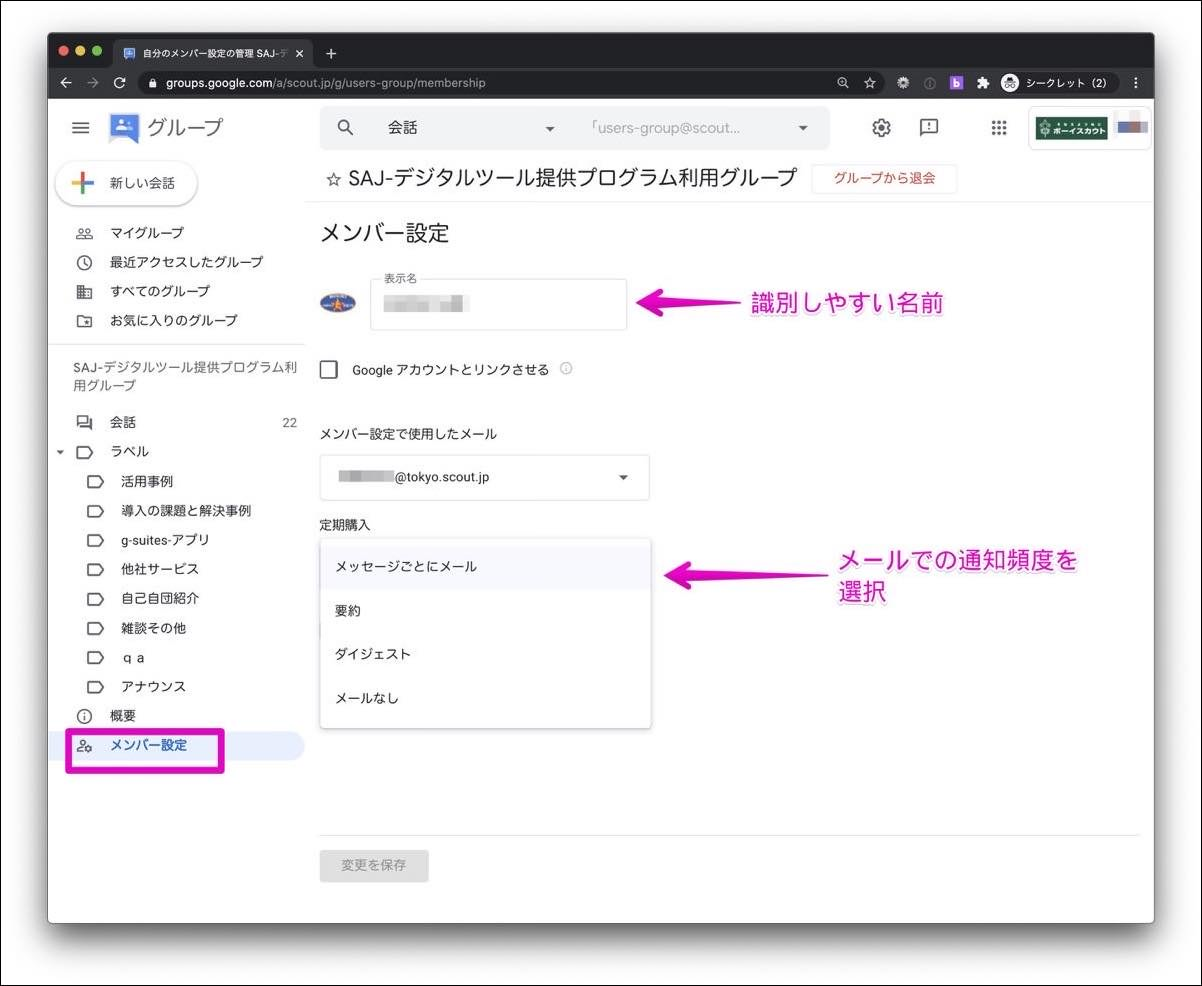
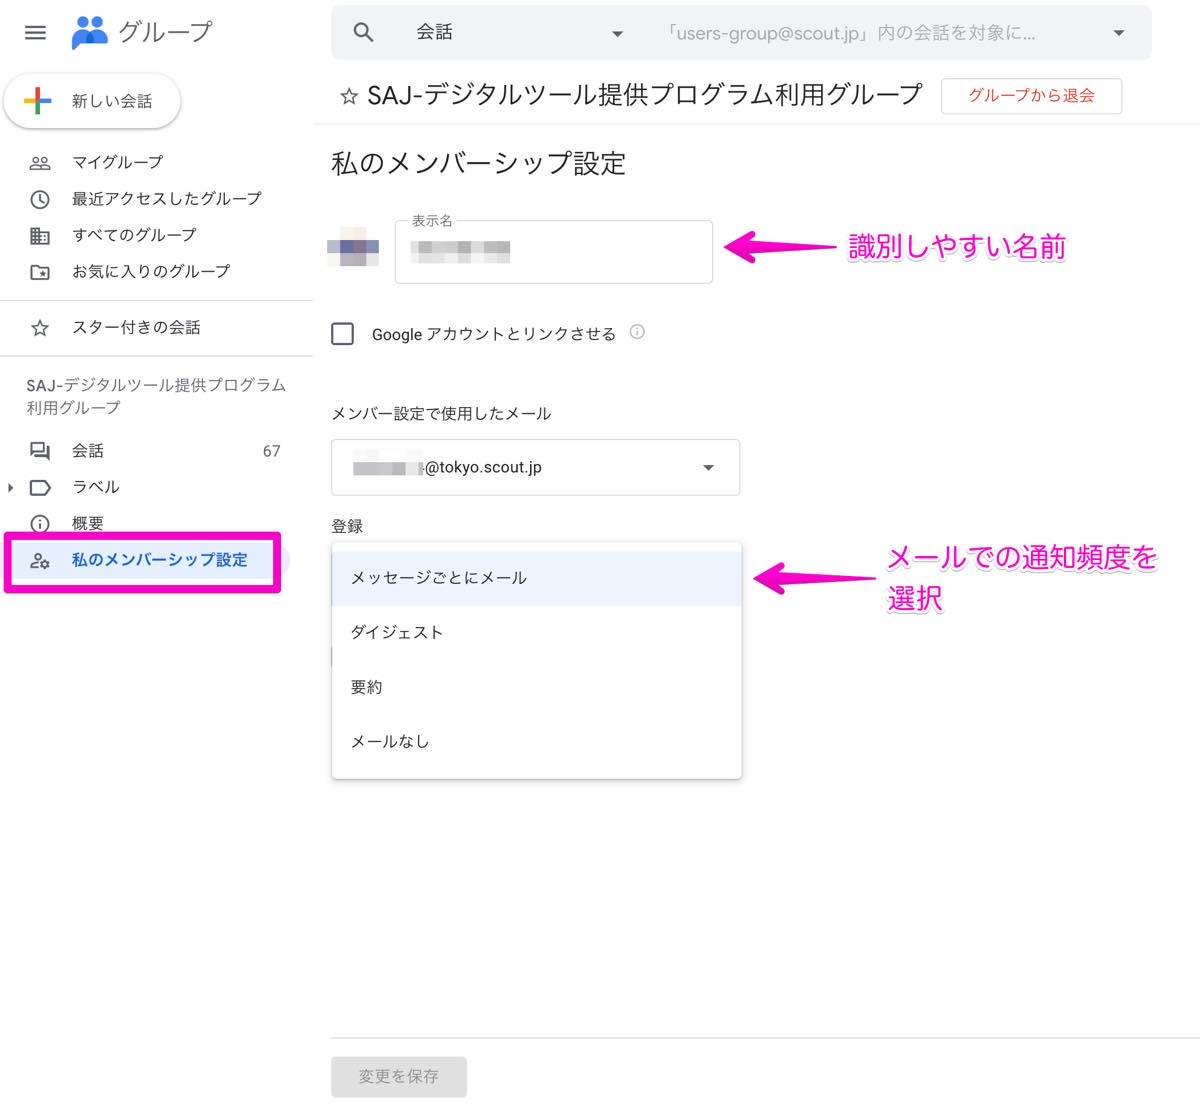
feature#195 (#201)
close #195

diff --git a/docs/group/HowtoUseUserForum.md b/docs/group/HowtoUseUserForum.md
@@ -53,7 +53,7 @@
 左メニューの `メンバー設定` をクリックするとこのような画面になります。<br>
 
 - 表示名: 他のユーザーから認識しやすいお名前を設定してください。
-- 定期購入: 定期購読の誤訳と思われます。このフォーラムにメッセージが投稿されると通知されるメールの頻度を希望に応じて変更してください。<br>
+- 登録: このフォーラムにメッセージが投稿されると通知されるメールの頻度を希望に応じて変更してください。<br>
 設定を変更したら `変更を保存` ボタンをクリックします。
 
 ### オンラインヘルプ
